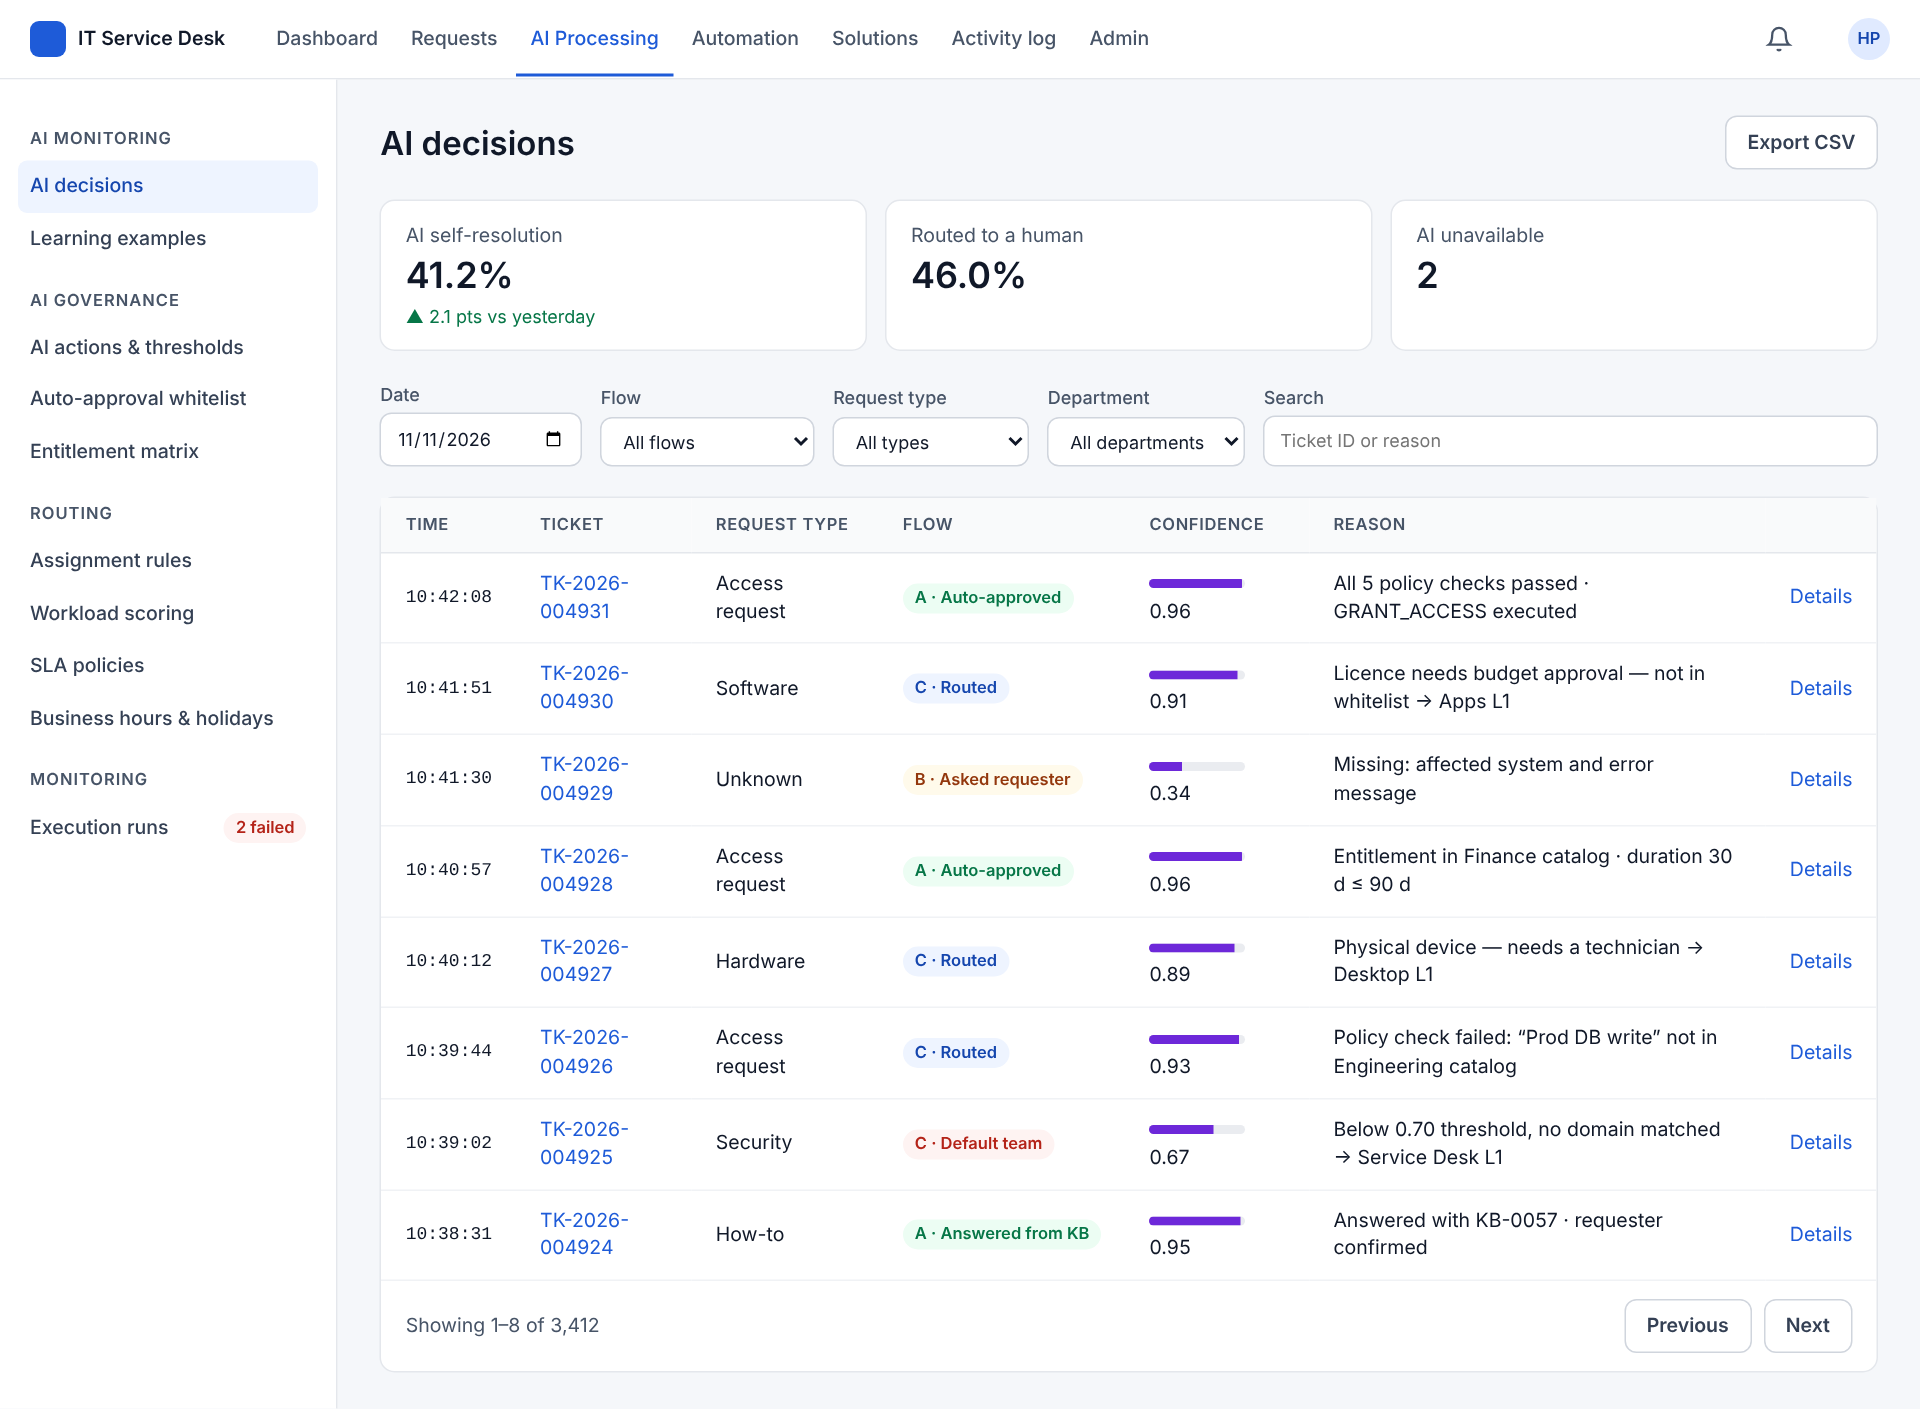
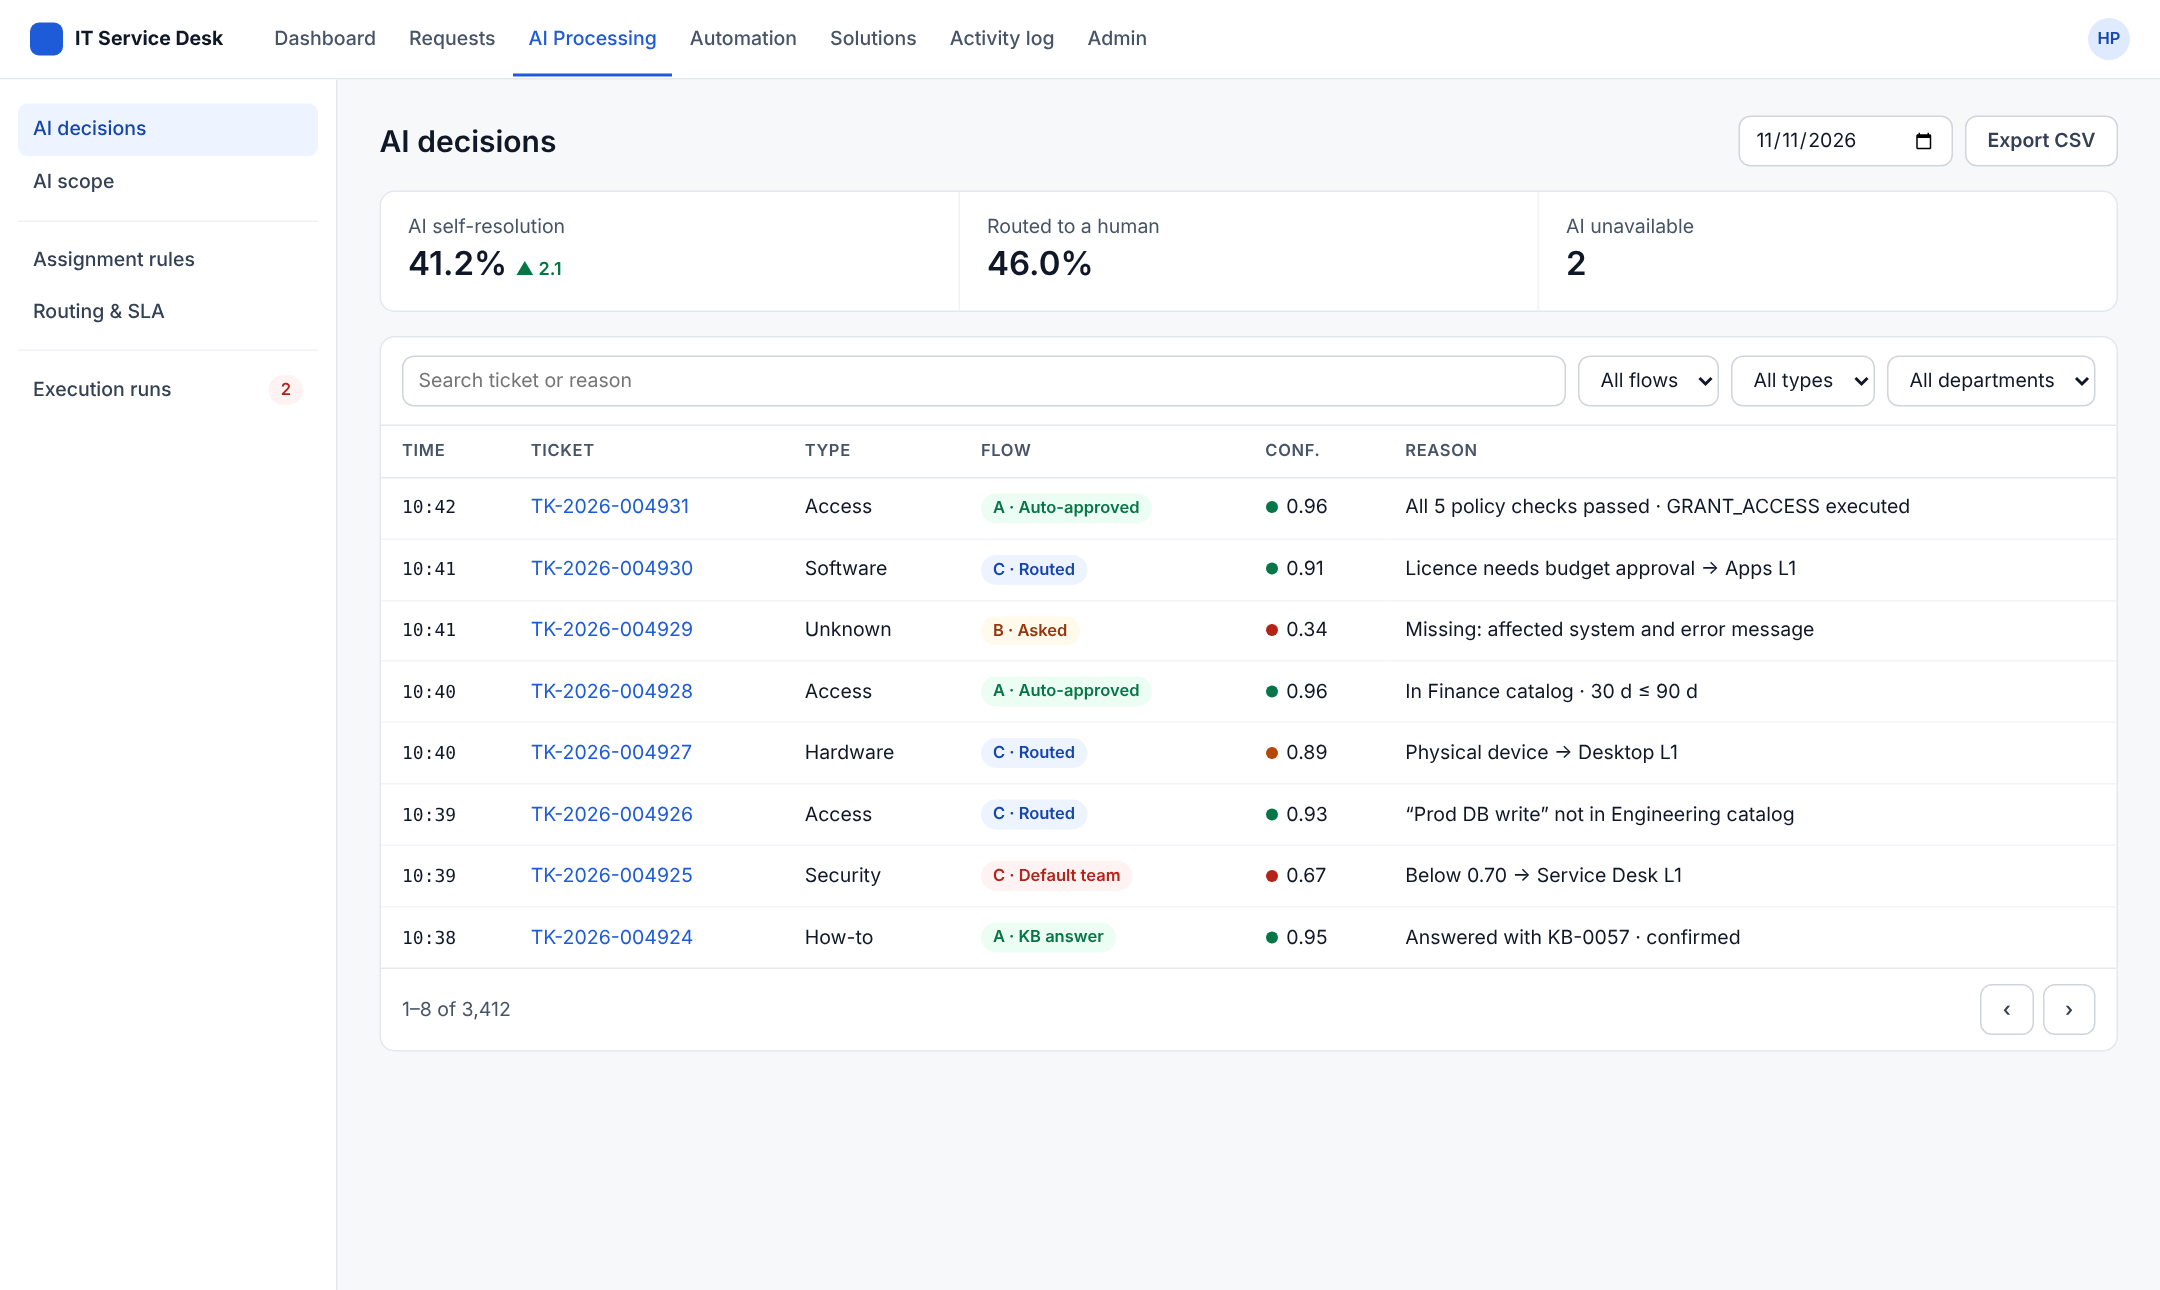
docs(design): merge Governance screens into 3 pages
Claude-Session: https://claude.ai/code/session_01MK99fycLrTpkWmzru1fcFT

diff --git a/README.md b/README.md
@@ -489,7 +489,7 @@ Every screen, by role:
 |---|---|---|
 | Requester | 8 PNG | [docs/image/requester/](docs/image/requester/) |
 | Technician | 8 PNG | [docs/image/technician/](docs/image/technician/) |
-| Administrator | 19 PNG | [docs/image/admin/](docs/image/admin/) |
+| Administrator | 21 PNG | [docs/image/admin/](docs/image/admin/) |
 
 Screen notes and states are in the branch folders, for example [F07 UI design](docs/f07-reports-analytics/ui-design/README.md), [F08 UI design](docs/f08-activity-log/ui-design/README.md) and [F09 UI draft](docs/f09-user-management/ui-design/README.md).
 
@@ -595,6 +595,7 @@ Requester ratings and response rate for the technician's own teams.
 
 #### Administrator — governance
 
+The governance screens are merged into three pages: **AI decisions** (list with a detail drawer), **AI scope** (tabs: AI actions, Whitelist, Entitlements) and **Routing & SLA** (tabs: Workload scoring, SLA policies, Business calendar). Forms and the assignment preview open as dialogs.
 
 ##### 2. AI decisions (SCR-WF-30)
 
@@ -606,34 +607,57 @@ Every routing decision of the AI with its outcome: done automatically, asked for
 
 ![AI decision detail](docs/image/admin/03_SCR-WF-31_AI-decision-detail.png)
 
-Why the AI decided: each rule it checked and the values it compared.
+Clicking a row opens the detail drawer: what the AI extracted, each rule it checked, the configuration used and the API execution. *Full page* opens it as its own page.
 
-
-##### 5. AI actions and thresholds (SCR-WF-03)
+##### 5. AI scope: AI actions and thresholds (SCR-WF-03)
 
 ![AI actions and thresholds](docs/image/admin/05_SCR-WF-03_AI-actions-thresholds.png)
 
 How sure the AI must be before acting, which AI actions are on, and which domains the AI agent handles first.
 
-##### 6. Approved actions list (SCR-WF-03)
+##### 6. AI scope: approved actions list (SCR-WF-03)
 
 ![Whitelist](docs/image/admin/06_SCR-WF-03-06_Whitelist.png)
 
 The requests the AI may approve and execute by itself.
 
-##### 7. Access by department (SCR-WF-03)
+##### 6b. Add an approved action (SCR-WF-06)
+
+![Add action](docs/image/admin/06b_SCR-WF-06_Add-action.png)
+
+Request type, operation, connector, parameters, limits and the fallback team.
+
+##### 7. AI scope: access by department (SCR-WF-03)
 
 ![Entitlement matrix](docs/image/admin/07_SCR-WF-03-07_Entitlement-matrix.png)
 
 Which department may get which access without a manual approval.
 
-##### 8. Workload scoring (SCR-WF-01)
+##### 7b. Add a department entitlement (SCR-WF-07)
+
+![Add entitlement](docs/image/admin/07b_SCR-WF-07_Add-entitlement.png)
+
+Department, system, entitlement, maximum duration and whether the AI may grant it.
+
+##### 8. Routing & SLA: workload scoring (SCR-WF-01)
 
 ![Workload scoring](docs/image/admin/08_SCR-WF-01-05_Workload-scoring.png)
 
 How the system weighs open tickets to pick the least busy technician.
 
-##### 9. Business calendar (SCR-WF-02)
+##### 8b. Assignment preview (SCR-WF-05)
+
+![Assignment preview](docs/image/admin/08b_SCR-WF-05_Assignment-preview.png)
+
+Tries a sample request and shows who would get it and why the others were excluded. No real ticket is assigned.
+
+##### 8c. Routing & SLA: SLA policies (SCR-WF-02)
+
+![SLA policies](docs/image/admin/08c_SCR-WF-02_SLA-policies.png)
+
+Response and resolution targets for P1–P4, when the clock runs, the reminder point, and raising priority on breach.
+
+##### 9. Routing & SLA: business calendar (SCR-WF-02)
 
 ![Business calendar](docs/image/admin/09_SCR-WF-02_Business-calendar.png)
 
